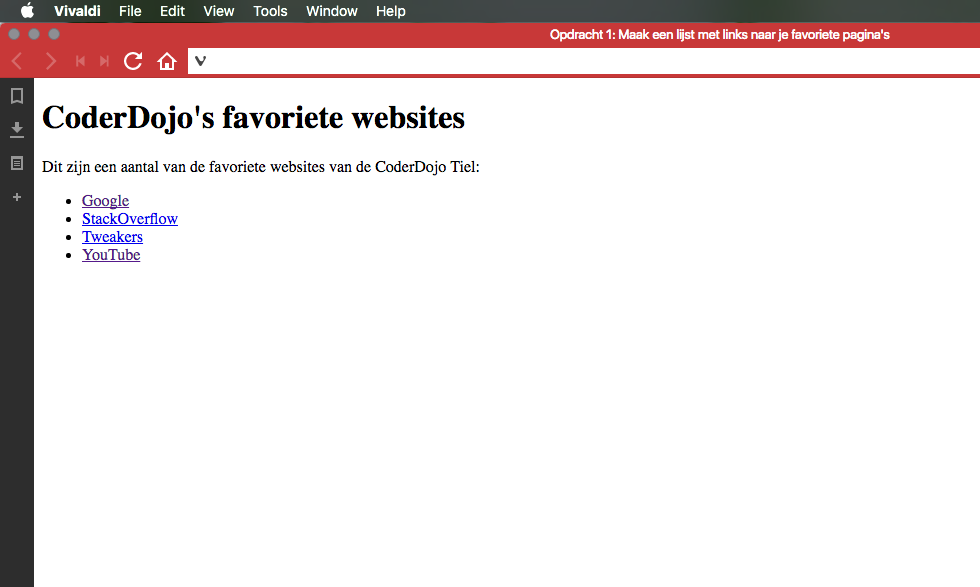
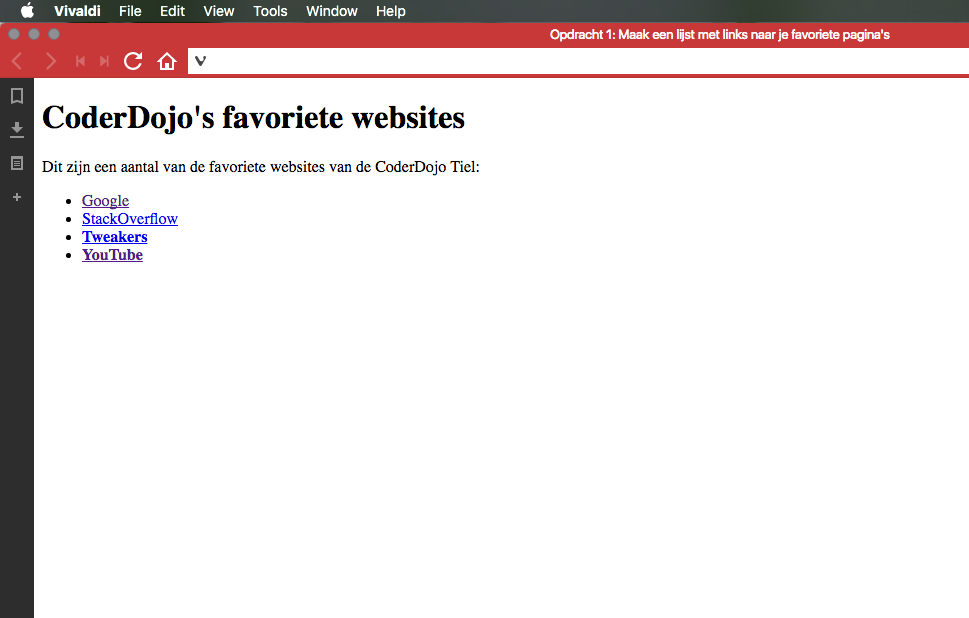
edit example and image

Changed region(s): [[0.0, 0.0, 1.0, 0.46]]

diff --git a/examples/example1.html b/examples/example1.html
@@ -12,8 +12,8 @@
     <ul>
       <li><a href="http://www.google.com" target="_blank">Google</a></li>
       <li><a href="http://www.stackoverflow.com">StackOverflow</a></li>
-      <li><a href="http://www.tweakers.net">Tweakers</a></li>
-      <li><a href="http://www.youtube.com" target="_blank">YouTube</a></li>
+      <li><a href="http://www.tweakers.net"><strong>Tweakers</strong></a></li>
+      <li><a href="http://www.youtube.com" target="_blank"><strong>YouTube</strong></a></li>
     </ul>
   </body>
 </html>
